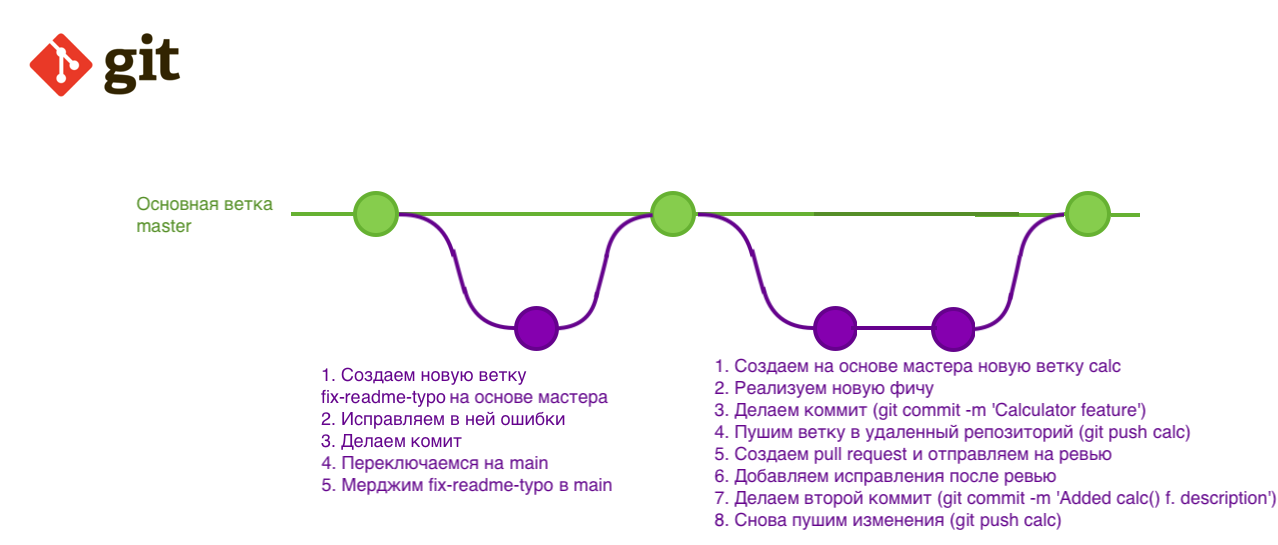
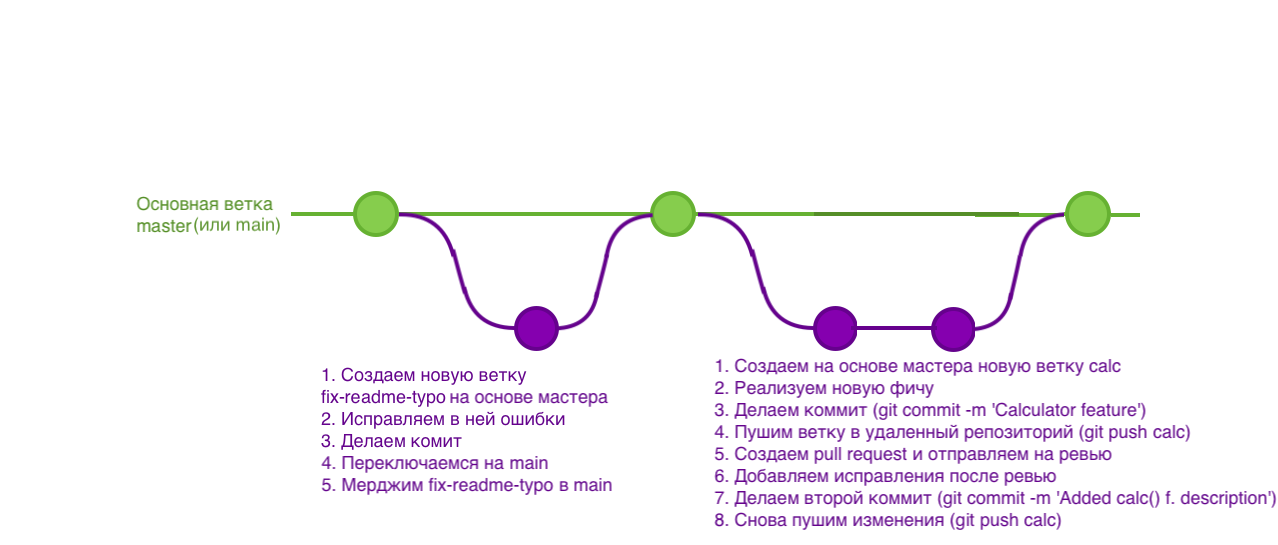
Refactored 3, 4, 5, 6 chapters

Changed region(s): [[0.0, 0.0624, 0.1526, 0.1872], [0.1526, 0.4055, 0.2136, 0.4367]]

diff --git a/6-git-basics/git-basics.md b/6-git-basics/git-basics.md
@@ -1,31 +1,45 @@
-# Начинаем работать с GIT и удаленной репой
+# Начинаем работать с GIT и удаленной репой (репозиторием)
 
-Чтоб работать с гит в конкретном проекте, нам нужно инициализировать гит для этого проекта, это делается один раз, как правило в начале проекта.
+Чтоб работать с `git` в конкретном проекте, нам нужно инициализировать `git` для этого проекта, это делается один раз, как правило в начале проекта.
 
-# Инициализируем GIT:
 
-При инициализации гит создает скрытую директорию где хранит историю вашего проекта. Для этого в корне проекта выполним команду:
+## Инициализируем GIT:
+
+Для этого в корне проекта выполним команду:
+
 ```
 git init
 ```
-В нашем проекте появилась новая директория .git, посмотрим на нее:
+
+При инициализации `git` создает скрытую директорию `.git` где хранит историю вашего проекта, посмотрим на нее:
+
 ```
 ls -la
 ```
 
-# Зафиксируем изменения:
 
-Итак, мы создали файл README.md, потом проинициализировали GIT и теперь я хочу чтоб  данные изменения стали доступны другим разработчикам. Для этого мне нужно отправить 'посылочку' с моими изменениями на удаленный сервер (origin). Давайте создадим 'посылочку'.
+## Как поделится нашими изменениями?
 
-Для начала посмотрим что происходит в нашем репозитории:
+Итак, мы создали файл README.md, потом проинициализировали GIT и теперь я хочу чтоб  данные изменения стали доступны другим разработчикам. Для этого мне нужно отправить 'посылочку' (commit) с моими изменениями на удаленный сервер (origin). Давайте создадим её.
+
+Наш план действий:
+1. Добавить изменения, которые будем фиксировать (commit), в промежуточную область (staging area).
+2. Зафиксировать изменения (commit).
+3. Отправить изменения на удаленный сервер (origin).
+
+
+## Для начала посмотрим что происходит в нашем репозитории:
+
 ```
 git status
 ```
-Данная команда показывает актуальное состояние репозитория. И сейчас она нам говорит что есть файл с изменениями которые не в индексе, подсвечивая его красным.
 
-Но прежде чем добавлять файл в индекс, сделаем кое что другое, добавим в корне проекта файл .gitignore:
+Данная команда показывает актуальное состояние репозитория. И сейчас она нам говорит что 'Changes not staged for commit' т.е. есть изменения, не подготовленные для фиксации, подсвечивая наш файл красным.
+
+Но прежде чем добавлять изменения для будущей фиксации, сделаем кое что другое, добавим в корне проекта файл `.gitignore`:
 
 ~/Projects/front-end-pro/.gitignore
+
 ```
 # Web Storm directory
 /.idea
@@ -36,80 +50,108 @@ git status
 # Директория с модулями nodejs
 /node_modules
 ```
-.gitignore - файл с указаниями какие файлы и директории не должны попасть в индекс GIT. Например рабочие файлы IDE для нашего проекта, смысла шарить их с другими разработчиками нет, поэтому игнорируем их.
 
-Полный список директорий для Visual Studio для .gitignore можно найти вот тут: See https://github.com/github/gitignore/blob/main/VisualStudio.gitignore
+`.gitignore` - файл с указаниями какие файлы и директории GIT должен игнорировать. Например рабочие файлы IDE для нашего проекта, смысла шарить их с другими разработчиками нет, поэтому игнорируем их.
 
-Все теперь можно добавлять наш файл в индекс гита, делается это с помощью команды:
+Полный список директорий для Visual Studio для `.gitignore` можно найти [вот тут](https://github.com/github/gitignore/blob/main/VisualStudio.gitignore).
+
+
+## Добавление изменений в промежуточную область (to the staging area)
+
+Все, теперь можно добавлять наши изменения для будущей фиксации, делается это с помощью команды:
+
 ```
 git add .
 ```
-Данная команда добавляет все файлы проекта в индекс (кроме тех которые указаны в .gitignore). т.е. мы как будто говорим: 'Гит, добавь в индекс все изменения которые произошли в нашем проекте!'.
 
-Обратите внимание точка означает 'добавь в индекс все файлы которые были изменены'. Точку проще написать чем перечислять названия всех файлов через пробел, будем ее использовать всегда.
+Данная команда добавляет все изменения, в промежуточную область (to the staging area), которые мы хотим зафиксировать, кроме тех которые указаны в .gitignore. т.е. мы как будто говорим: `git`, я хочу добавить для будущей фиксации вот эти и эти изменения, а вот те изменения пока оставлю для доработки!'.
 
-Если нужно добавить в индекс прицельно один или несколько файлов, перечисленных через пробел, то можно написать вот так тогда в файле .gitignore нет необходимости:
+Обратите внимание точка означает: добавь для будущей фиксации все изменения. Точку проще написать чем перечислять названия всех файлов через пробел, будем ее использовать всегда.
+
+Если нужно добавить прицельно один или несколько файлов, то их нужно  перечислить через пробел, вот так:
+
 ```
-git add README.md
+git add README.md some-another-file.js
 ```
 
 Посмотрим какое теперь состояние у нашего репозитория:
+
 ```
 git status
 ```
-Все, наш файл зелененький - теперь он в индексе.
 
-Зафиксируем изменения:
+Все, наш файл зелененький - теперь все изменения добавлены в промежуточную область для будущей фиксации.
+
+
+## Зафиксируем (commit) изменения:
+
 ```
 git commit -m "Initial commit"
 ```
+
 Данная команда создает новый коммит - снимок изменений нашего проекта. Это как комар в янтаре. Вы не можете с ним ничего сделать но можете на него посмотреть с разных сторон и сравнить с другим комаром например :)
 
-Все, посылочка сформирована, давайте посмотри на нее повнимательнее:
+
+## Все, посылочка сформирована, давайте посмотри на нее повнимательнее:
+
 ```
 git log
+git log --oneline -n 3
 ```
-Данная команда показывает историю коммитов (снимков изменений). Здесь есть дата когда были сделаны изменения, имя и почта автора чтоб можно было потом найти и заставить съесть этого комара в случае чего :). И самое важное это уникальный идентификатор коммита который нельзя поменять. Он нужен что бы ваш коммит не потерялся среди других коммитов т.е. снимков изменений т.е. комаров.
 
-Не подумайте что я бывший энтомолог, нет, по моему просто пример хороший.
+Данная команда показывает историю коммитов (снимков изменений). Здесь есть дата когда были сделаны изменения, имя и почта автора чтоб можно было потом найти и заставить съесть этого комара в случае чего. И самое важное это уникальный идентификатор фиксации который нельзя поменять. Он нужен что бы ваш коммит не потерялся среди других коммитов т.е. снимков изменений.
 
-(!) Тут важно отметить что когда вы создаете первый коммит в проекте то гит автоматически создает для вас новую ветку которая называется master или main, сейчас рекомендуется использовать название main для основной ветки по причинам связанным с историей рабства.
+Нет мы не на уроке по Энтомологии, просто пример с комаром показывает что вы никак не можете модифицировать коммит.
 
-**Ветка (branch) в гите** - это последовательность коммитов. Мы поработаем с ними чуть позже.
+(!) Тут важно отметить что когда вы создаете первый коммит в проекте то `git` автоматически создает для вас новую ветку которая называется `master` или `main`, сейчас рекомендуется использовать название `main` для основной ветки.
+
+**Ветка (branch) в `git`** - это последовательность коммитов.
+
+Кружки - это последовательность коммитов, цвета показывают к каким веткам они пренадлежат.
+
+<img src="../git-branch.png" width="700">
 
 
+## Отправим наши изменения на удаленный сервер (origin):
 
+Сейчас все наши фиксации (commits) хранятся только локально и чтобы они стали доступны другим разработчикам мы должны отправить их на удаленный репозиторий откуда другие разработчики смогут их себе скачать. Выполним:
 
-## Отправим наши изменения:
-
-Сейчас все наши изменения (коммиты) хранятся только локально и чтобы они стали доступны другим разработчикам мы должны отправить их на удаленный репозиторий откуда другие разработчики смогут их себе скачать. Выполним:
 ```
 git push
 ```
+
 Это команда отправляет наши изменения на удаленный репозиторий. Но первый раз она не сработает потому что мы не указали адрес куда отправлять коммиты, оно и не странно потому что адреса пока нет.
 
-Создадим новый чистый репозиторий с названием таким-же как и директория проекта в https://github.com/new и скопируем новый адрес.
+
+## [Создадим новый](https://github.com/new) чистый репозиторий с названием таким-же как и директория проекта и скопируем его адрес.
 
 Теперь мы можем привязать локальный проект к удаленному репозиторию:
+
 ```
 git remote add origin git@github.com:volodymyr-kryvoshapov/front-end-pro.git
 ```
 
 Выполним снова команду
+
 ```
 git push
 ```
-И мы видим что гит все еще ничего не отправил а выдал нам новое сообщение:
+
+И мы видим что `git` все еще ничего не отправил а выдал нам новое сообщение:
+
 ```
 fatal: The current branch main has no upstream branch.
 To push the current branch and set the remote as upstream, use
 
     git push --set-upstream origin main
 ```
-Перевожу на язык понятный для простых смертных: 'да, я теперь знаю адрес репозитория куда отправлять изменения, и я вижу что ты свои изменения хранишь в локальной ветке main но я не в курсе в какую удаленную ветку ты хочешь отправить новые изменения. Может быть создать на удаленном сервере ветку с таким же названием как и на локальном сервере и отправить изменения в нее?' Мы говори да, сделай это и выполняем команду которую предлагает гит.
+
+Перевожу на язык понятный для простых смертных: 'да, я теперь знаю адрес репозитория куда отправлять изменения, и я вижу что ты свои изменения хранишь в локальной ветке main но я не в курсе в какую удаленную ветку ты хочешь отправить новые изменения. Может быть создать на удаленном сервере ветку с таким же названием как и на локальном сервере, связать локальную и удаленную ветки, и отправить изменения в нее?' Мы говори да, сделай это и выполняем команду которую предлагает `git`.
+
 ```
 git push --set-upstream origin main
 ```
-Гит говорит нам что локальная ветка 'main' настроена на отслеживание удаленной ветки 'main' из 'origin' (удаленного репозитория). Настройка связи между локальной и удаленной ветками делается один раз для каждой ветки при попытке пуша.
+
+`git` говорит нам что локальная ветка 'main' настроена на отслеживание удаленной ветки 'main' из 'origin' (удаленного репозитория). Настройка связи между локальной и удаленной ветками делается один раз для каждой ветки при попытке пуша.
 
 Переходим на наш репозиторий в github, обновляем страницу и видим нашу ветку, наш коммит и наш файл.

diff --git a/4-ssh/ssh.md b/4-ssh/ssh.md
@@ -16,11 +16,14 @@ ls -al ~/.ssh
 
 Должен быть файл с расширением .pub, если есть то генерацию нового ключа (следующий шаг) пропускаем.
 
-Если нет то **генерируем новый ключ**, для этого вводим команду в терминале и просто везде нажимаем enter несколько раз соглашаясь со всеми дефолтными значениями:
+Если нет то [**генерируем новый ключ**](https://docs.github.com/en/authentication/connecting-to-github-with-ssh/adding-a-new-ssh-key-to-your-github-account), для этого вводим команду в терминале и просто везде нажимаем enter несколько раз соглашаясь со всеми дефолтными значениями:
 
 ```
 ssh-keygen -t ed25519 -C "your_email@example.com"
 ```
+
+- Параметр `-t` означает протокол создания публичного ключа. ed25519 - один из самых быстрых и в то же время безопасных алгоритмов.
+- Параметр `-С` означает комментарий, чтоб вы не забыли что это за ключ и для какого ресурса он был сгенерен.
 
 Проверяем файлы ключей:
 
@@ -43,3 +46,82 @@ ssh -T git@github.com
 ```
 
 Доступ установлен, отлично. Приготовления закончили, переходим к самому интересному.
+
+
+
+
+## [Добавление дополнительного ключа в ssh-agent](https://docs.github.com/en/authentication/connecting-to-github-with-ssh/generating-a-new-ssh-key-and-adding-it-to-the-ssh-agent#adding-your-ssh-key-to-the-ssh-agent)
+
+Когда вы генерируете новый приватный ключ он должен быть добавлен в SSH agent!
+
+Before adding a new SSH key to the ssh-agent to manage your keys, you should have checked for existing SSH keys and generated a new SSH key. When adding your SSH key to the agent, use the default macOS ssh-add command, and not an application installed by macports, homebrew, or some other external source.
+
+1. Start the ssh-agent in the background.
+
+```
+$ eval "$(ssh-agent -s)"
+> Agent pid 59566
+```
+
+Depending on your environment, you may need to use a different command. For example, you may need to use root access by running sudo -s -H before starting the ssh-agent, or you may need to use exec ssh-agent bash or exec ssh-agent zsh to run the ssh-agent.
+
+2. If you're using macOS Sierra 10.12.2 or later, you will need to modify your ~/.ssh/config file to automatically load keys into the ssh-agent and store passphrases in your keychain.
+
+- First, check to see if your ~/.ssh/config file exists in the default location.
+
+```
+$ open ~/.ssh/config
+> The file /Users/you/.ssh/config does not exist.
+```
+
+- If the file doesn't exist, create the file.
+
+```
+$ touch ~/.ssh/config
+```
+
+- Open your `~/.ssh/config` file, then modify the file to contain the following lines. If your SSH key file has a different name or path than the example code, modify the filename or path to match your current setup.
+
+```
+Host *
+  AddKeysToAgent yes
+  UseKeychain yes
+  IdentityFile ~/.ssh/id_ed25519
+```
+
+Notes:
+- If you chose not to add a passphrase to your key, you should omit the UseKeychain line.
+- If you see a Bad configuration option: usekeychain error, add an additional line to the configuration's' Host * section.
+
+```
+Host *
+IgnoreUnknown UseKeychain
+```
+
+Config might look like this
+
+```
+#activehacker account
+Host github.com-activehacker
+	HostName github.com
+	User git
+	IdentityFile ~/.ssh/id_rsa_activehacker
+
+#jexchan account
+Host github.com-jexchan
+	HostName github.com
+	User git
+	IdentityFile ~/.ssh/id_rsa_jexchan
+```
+
+3. Add your SSH private key to the ssh-agent and store your passphrase in the keychain. If you created your key with a different name, or if you are adding an existing key that has a different name, replace id_ed25519 in the command with the name of your private key file.
+
+```
+$ ssh-add -K ~/.ssh/id_ed25519
+```
+
+4. You can check your saved keys
+
+```
+$ ssh-add -l
+```

diff --git a/5-organize-projects/organize-projects.md b/5-organize-projects/organize-projects.md
@@ -1,8 +1,8 @@
-# Как правильно организовать ваши проекты. Создадим проект
+# Как правильно организовать ваши проекты
 
 Прежде чем работать с гитом нам нужен проект 👮.
 
-Первый вопрос который возникает это где его создать и вообще где правильно хранить проекты на своей локальной машине чтоб было удобно? Файлы проектов нужно хранить:
+И первый вопрос который возникает это где его создать и вообще где правильно хранить проекты на своей локальной машине чтоб было удобно? Файлы проектов нужно хранить:
 
 Linux and Mac:
 
@@ -32,6 +32,8 @@ cd %USERPROFILE%\projects
 - `projects/tic-tac-toe` игра 'крестики нолики'.
 - `projects/some-course-home-works` все домашние работы по какому-то курсу.
 
+# Создадим проект
+
 Создадим директорию проекта с любым названием, например: 'front-end-pro' или 'home-works' или 'git-experiments' и перейдем в нее:
 ```
 mkdir ~/Projects/front-end-pro
@@ -50,4 +52,4 @@ cd ~/Projects/front-end-pro
 Мои домашние работы в рамках курса Front End Pro
 ```
 
-Добавляем описание вашего проекта, и например инструкцию как его установить и как им пользоваться.
+В этом файле обычно содержится описание вашего проекта, и например инструкция как его установить и как им пользоваться.

diff --git a/3-requirements/requirements.md b/3-requirements/requirements.md
@@ -27,3 +27,4 @@
     > provide shell access.
     ```
    Если нет то переходим к следующему шагу.
+
